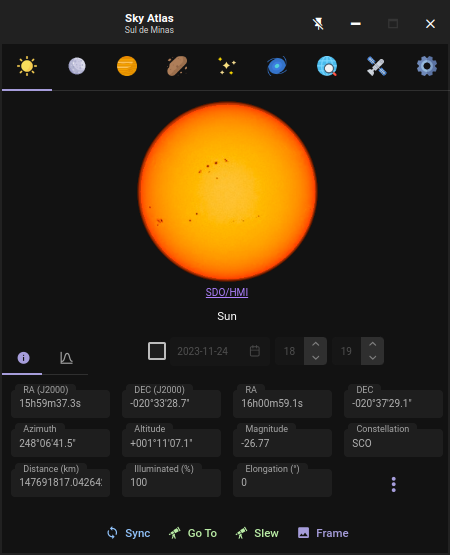
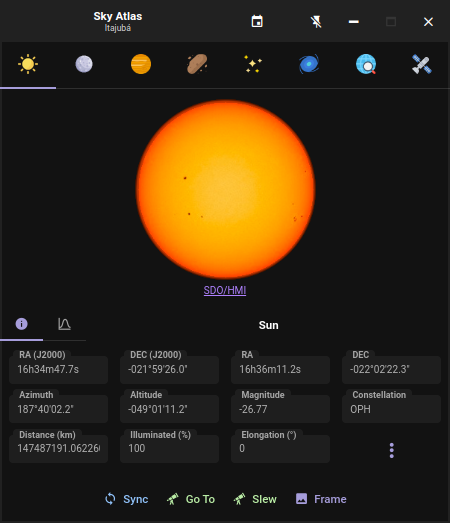
[desktop]: Improve Sky Atlas layout

diff --git a/desktop/src/app/atlas/atlas.component.html b/desktop/src/app/atlas/atlas.component.html
@@ -257,10 +257,6 @@
     </div>
 </div>
 <div class="grid px-2 relative">
-    <div class="col-12 flex align-items-start justify-content-center gap-1 py-0" style="height: 32px;">
-        <span class="text-overflow-scroll">{{ name ?? '-' }}</span>
-        <p-tag *ngFor="let tag of tags" [severity]="tag.severity" [value]="tag.title" />
-    </div>
     <p-tabView [style]="{height: '258px', width: '100vw'}">
         <p-tabPanel leftIcon="mdi mdi-information">
             <div class="grid pt-2 flex-row justify-content-center">
@@ -354,6 +350,10 @@
             <p-chart #chart width="100%" height="170px" [data]="altitudeData" [responsive]="true" [options]="altitudeOptions" />
         </p-tabPanel>
     </p-tabView>
+    <div class="col-9 flex flex-row align-items-center justify-content-center gap-2 absolute" style="height: 32px; right: 14px; top: 2px;">
+        <span class="text-overflow-scroll font-bold">{{ name ?? '' }}</span>
+        <p-tag *ngFor="let tag of tags" [severity]="tag.severity" [value]="tag.title" />
+    </div>
 </div>
 
 <p-dialog header="Minor Planets" [modal]="true" [(visible)]="showMinorPlanetChoiceDialog" [style]="{width: '80vw'}">
@@ -448,21 +448,22 @@
 <p-overlayPanel #calendarPanel [style]="{width: 'calc(100% - 8px)', marginLeft: '4px'}" appendTo="body">
     <ng-template pTemplate="content">
         <div class="grid">
-            <div class="col-12 flex flex-row align-items-center justify-content-center gap-1">
+            <div class="col-12 flex flex-row align-items-center justify-content-between gap-1">
                 <p-inputSwitch [disabled]="refreshing" [(ngModel)]="useManualDateTime" (ngModelChange)="useManualDateTimeChanged()" />
+
+                <div class="flex align-items-center justify-content-center gap-2">
+                    <p-inputNumber [disabled]="refreshing || !useManualDateTime" [(ngModel)]="dateTimeHour" [showButtons]="true" [min]="0" [max]="23"
+                                   class="w-fit" [format]="false" [allowEmpty]="false" (ngModelChange)="dateTimeChanged(false)"
+                                   styleClass="p-inputtext-sm border-0" [style]="{width: '54px'}" />
+                    <p-inputNumber [disabled]="refreshing || !useManualDateTime" [(ngModel)]="dateTimeMinute" [showButtons]="true" [min]="0"
+                                   [max]="59" class="w-fit" [format]="false" [allowEmpty]="false" (ngModelChange)="dateTimeChanged(false)"
+                                   styleClass="p-inputtext-sm border-0" [style]="{width: '54px'}" />
+                </div>
             </div>
             <div class="col-12">
                 <p-calendar [disabled]="refreshing || !useManualDateTime" [(ngModel)]="dateTime" (ngModelChange)="dateTimeChanged(true)"
                             [inline]="true" [showIcon]="true" [showWeek]="true" [showButtonBar]="false" dateFormat="yy-mm-dd" styleClass="w-full" />
             </div>
-        </div>
-        <div class="col-12 flex align-items-center justify-content-center gap-2">
-            <p-inputNumber [disabled]="refreshing || !useManualDateTime" [(ngModel)]="dateTimeHour" [showButtons]="true" [min]="0" [max]="23"
-                           class="w-fit" [format]="false" [allowEmpty]="false" (ngModelChange)="dateTimeChanged(false)"
-                           styleClass="p-inputtext-sm border-0" [style]="{width: '54px'}" />
-            <p-inputNumber [disabled]="refreshing || !useManualDateTime" [(ngModel)]="dateTimeMinute" [showButtons]="true" [min]="0" [max]="59"
-                           class="w-fit" [format]="false" [allowEmpty]="false" (ngModelChange)="dateTimeChanged(false)"
-                           styleClass="p-inputtext-sm border-0" [style]="{width: '54px'}" />
         </div>
     </ng-template>
 </p-overlayPanel>

diff --git a/desktop/src/app/app.component.html b/desktop/src/app/app.component.html
@@ -6,7 +6,7 @@
     </span>
 
     <p-button [text]="true" [rounded]="true" [icon]="e.icon" [disabled]="e.disabled" [pTooltip]="e.tooltip" tooltipPosition="bottom"
-              (onClick)="e.command?.({originalEvent: $event, item: e, index: i})" *ngFor="let e of extra; let i = index" />
+              (onClick)="e.command?.({originalEvent: $event, item: e, index: i})" size="small" *ngFor="let e of extra; let i = index" />
 
     <span *ngIf="extra.length" style="width: 16px;"></span>
 

diff --git a/desktop/src/shared/services/browser-window.service.ts b/desktop/src/shared/services/browser-window.service.ts
@@ -75,7 +75,7 @@ export class BrowserWindowService {
     openSkyAtlas(options: Partial<OpenWindowOptions<undefined>> = {}) {
         options.icon ||= 'atlas'
         options.width ||= 450
-        options.height ||= 555
+        options.height ||= 523
         this.openWindow({ ...options, id: 'atlas', path: 'atlas', data: undefined })
     }
 

diff --git a/desktop/src/app/atlas/atlas.component.scss b/desktop/src/app/atlas/atlas.component.scss
@@ -70,6 +70,6 @@
 
     .p-overlaypanel:after,
     .p-overlaypanel:before {
-        left: calc(var(--overlayArrowLeft, 0) + 2rem) !important;
+        left: calc(var(--overlayArrowLeft, 0) + 2.1rem) !important;
     }
 }

diff --git a/desktop/src/styles.scss b/desktop/src/styles.scss
@@ -92,6 +92,11 @@ p-calendar.border-0 .p-calendar-w-btn {
     border: 0 !important;
 }
 
+.p-overlaypanel .p-overlaypanel-content {
+    padding-bottom: 10px;
+    padding-top: 10px;
+}
+
 .p-toast {
     opacity: 1;
 }
